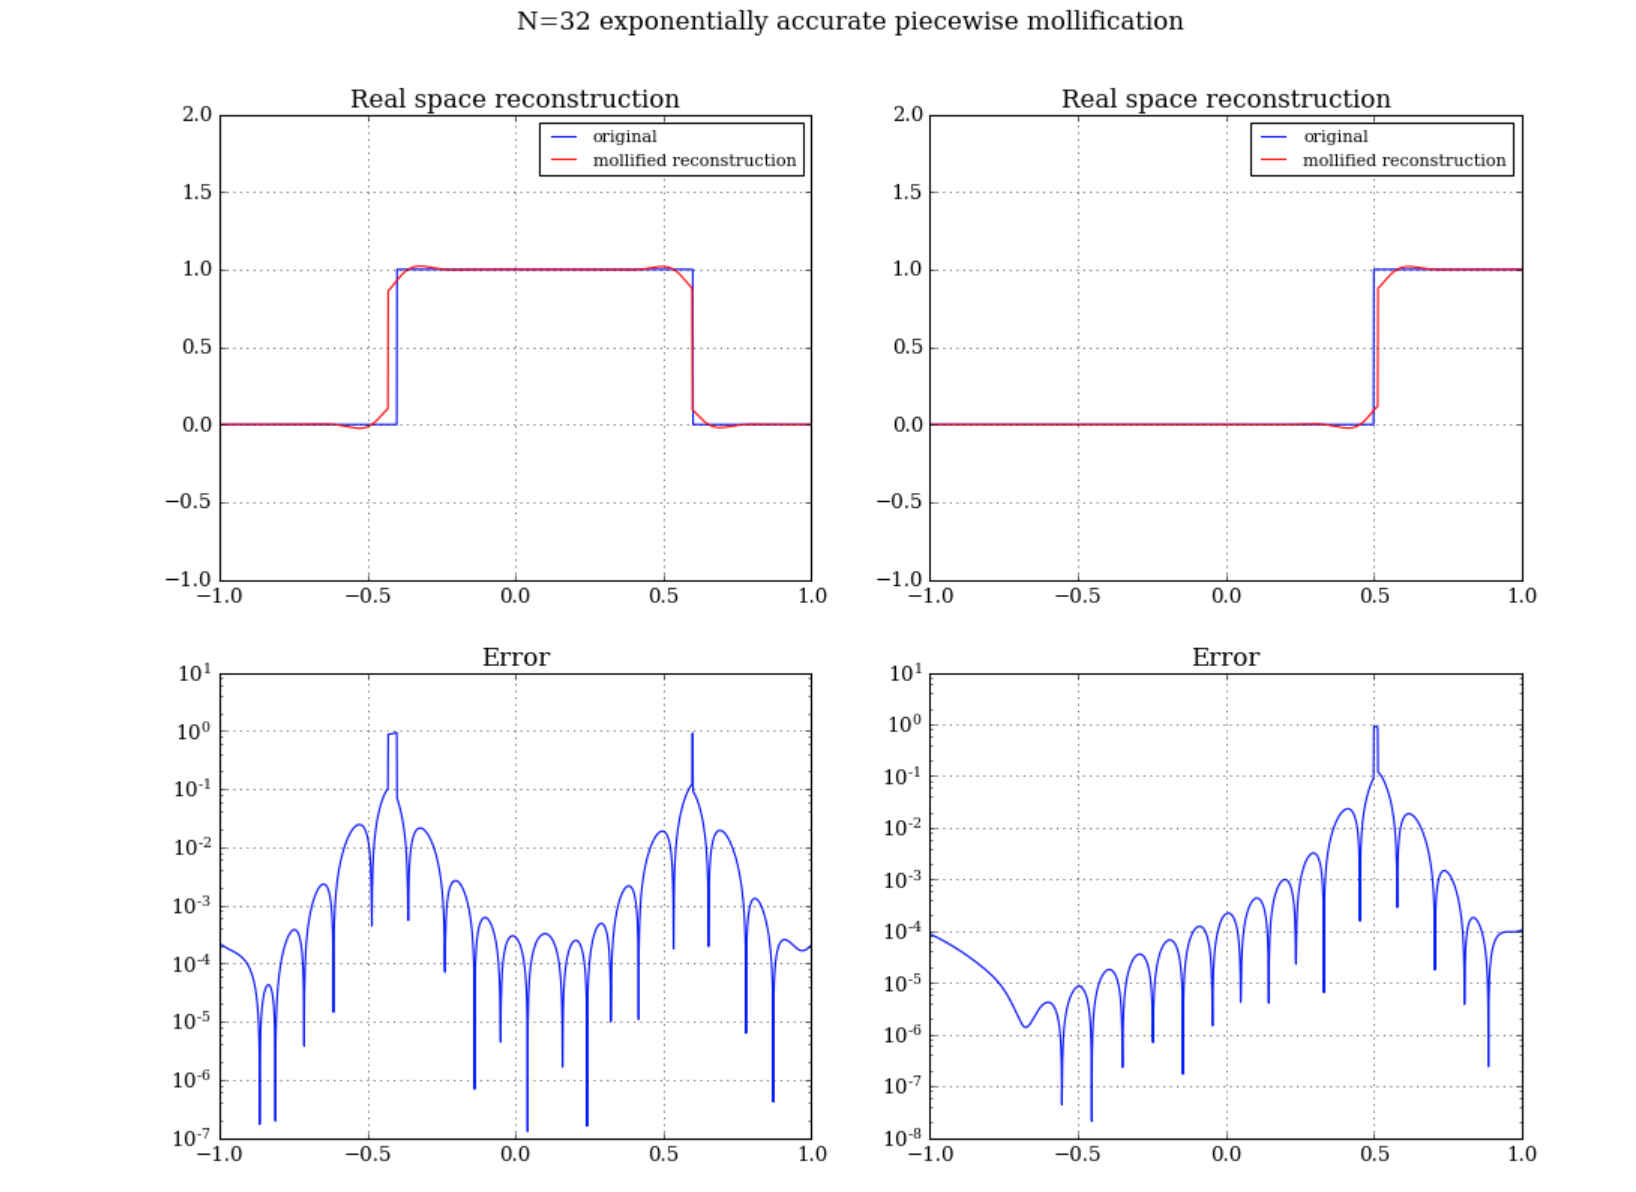
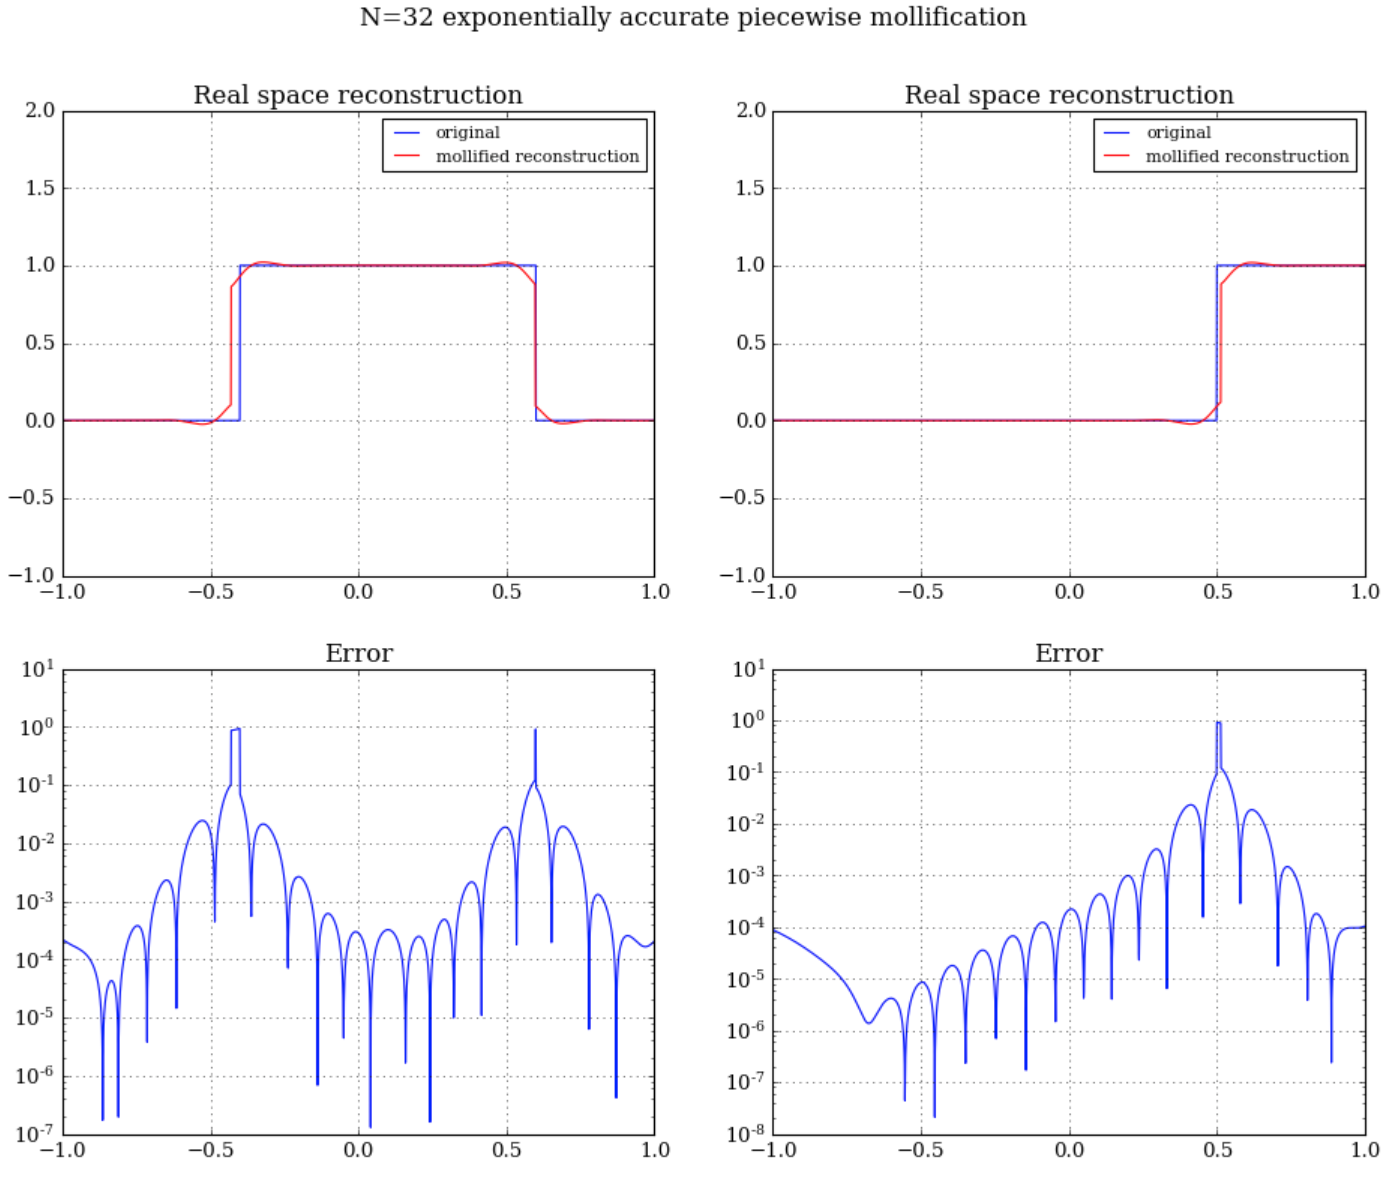
i

diff --git a/Cheb_Gauss_Lobato/mollification/README.md b/Cheb_Gauss_Lobato/mollification/README.md
@@ -56,4 +56,13 @@ Illustration of the 'chopped' mollifiers for piecewise procedure is presented be
 Using this approach results in the following shape of mollified reconstruction for N=32 and N=64:
   
 <img src="N32_piecewise.png" align='middle'/><br>
+------------------------------------------------------------------------------------------------
 <img src="N64_piecewise.png" align='middle'/><br>
+
+<b>Successes:</b><br>
+* Previous mollification successes recovered for N=32
+* Top-hat crossing the boundary is unaffected by mollification without the need for a buffer
+* Discontinuous character of the function is recovered, the function is clearly multivalued at x=edge location<br>
+
+<b>Failures:</b><br>
+* quite unpleasant artefacts close to the edge, which decrease with increasing number of N. I believe this one is fixable with a bit more post-processing, however I need to put it aside for the moment<br>
